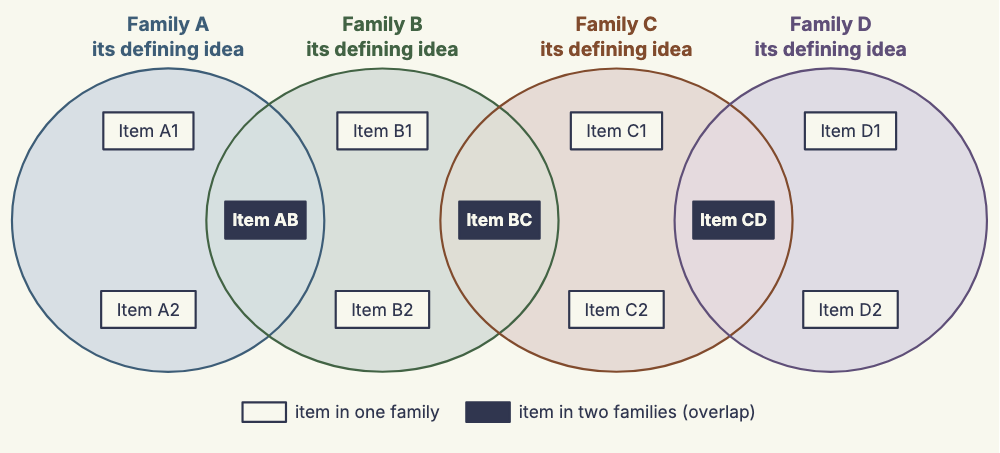
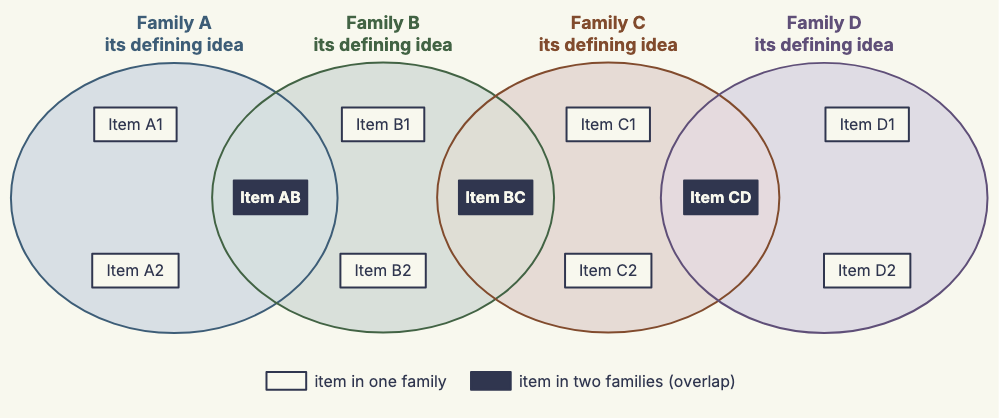
feat(skill): size the set-taxonomy ellipses with minWidth and minHeight instead of hidden junctions (#511)

diff --git a/docs/design/decisions/511-base-layouts.md b/docs/design/decisions/511-base-layouts.md
@@ -22,4 +22,4 @@
 
 ## 互換性
 
-既存の図は変わらない。`gallery` が layouts の SVG を新たに生成し、biome の対象から layouts の SVG を除外する（examples と同じ）。種の 4 枚は #509 の 1B・4B・6A・8B から。8B は set の `minWidth` / `minHeight` が基点に入っていなかったため、隠し junction のまま。
+既存の図は変わらない。`gallery` が layouts の SVG を新たに生成し、biome の対象から layouts の SVG を除外する（examples と同じ）。種の 4 枚は #509 の 1B・4B・6A・8B から。8B は set の `minWidth` / `minHeight`（#518）で隠し junction を置き換えた。
